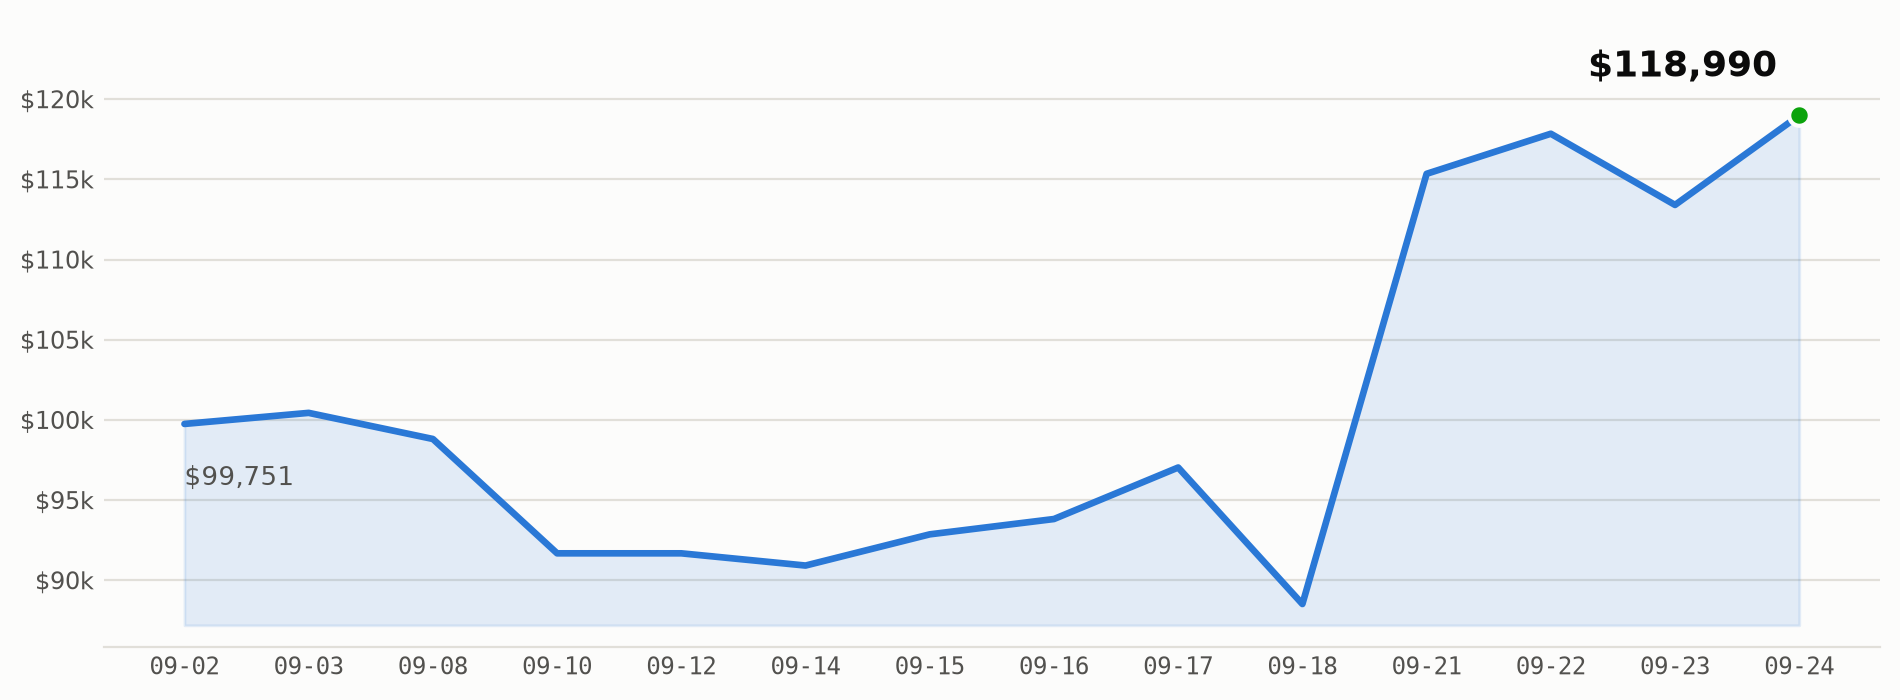
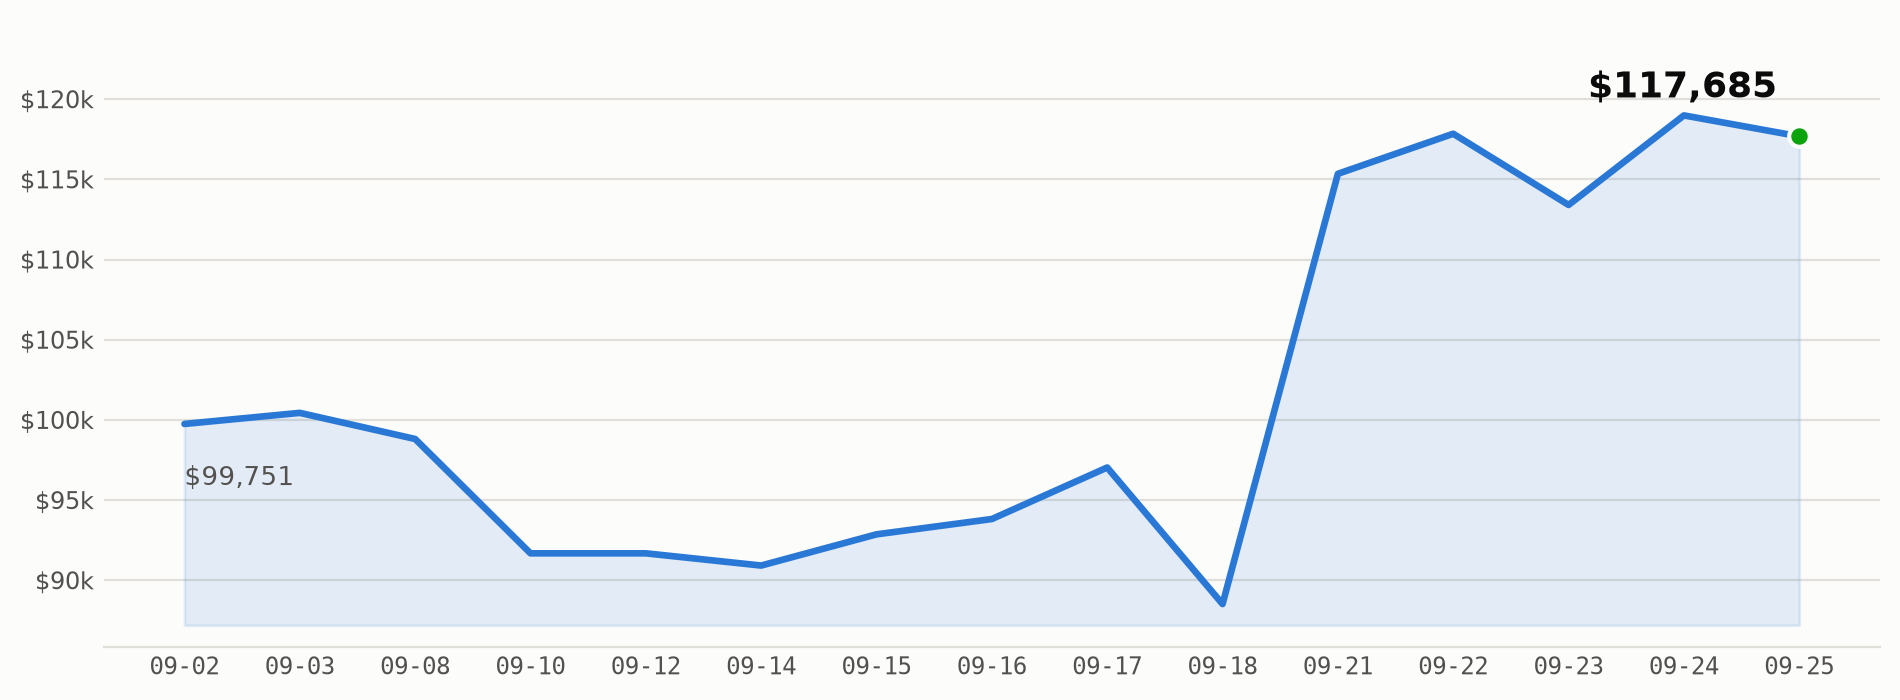
Daily dashboard update for 2026-09-25
Automated commit from scripts/daily_run.py after the market-close run.

diff --git a/README.md b/README.md
@@ -4,15 +4,15 @@ An autonomous AI trading agent for Alpaca's **Options Alpha** hackathon track.
 
 <!-- PNL_DASHBOARD_START: auto-regenerated daily by scripts/update_readme_dashboard.py - do not hand-edit between these markers, it will be overwritten -->
 <p align="center">
-  <img src="https://img.shields.io/badge/return-%2B18.99%25-0ca30c?style=for-the-badge" alt="Total return +18.99%">
-  <img src="https://img.shields.io/badge/P%26L-%2B%2418%2C990-0ca30c?style=for-the-badge" alt="Total P&L">
+  <img src="https://img.shields.io/badge/return-%2B17.68%25-0ca30c?style=for-the-badge" alt="Total return +17.68%">
+  <img src="https://img.shields.io/badge/P%26L-%2B%2417%2C685-0ca30c?style=for-the-badge" alt="Total P&L">
   <img src="https://img.shields.io/badge/win_rate-40%25-2a78d6?style=for-the-badge" alt="Win rate 40%">
   <img src="https://img.shields.io/badge/trades_closed-5-2a78d6?style=for-the-badge" alt="5 trades closed">
   <img src="https://img.shields.io/badge/status-autonomous-0ca30c?style=for-the-badge" alt="Status: autonomous">
 </p>
 
 <p align="center">
-  <img src="docs/equity_curve.png?v=2026-09-24-118990" alt="AlphaCa account equity over time, currently $118,990" width="800">
+  <img src="docs/equity_curve.png?v=2026-09-25-117685" alt="AlphaCa account equity over time, currently $117,685" width="800">
 </p>
 <!-- PNL_DASHBOARD_END -->
 
